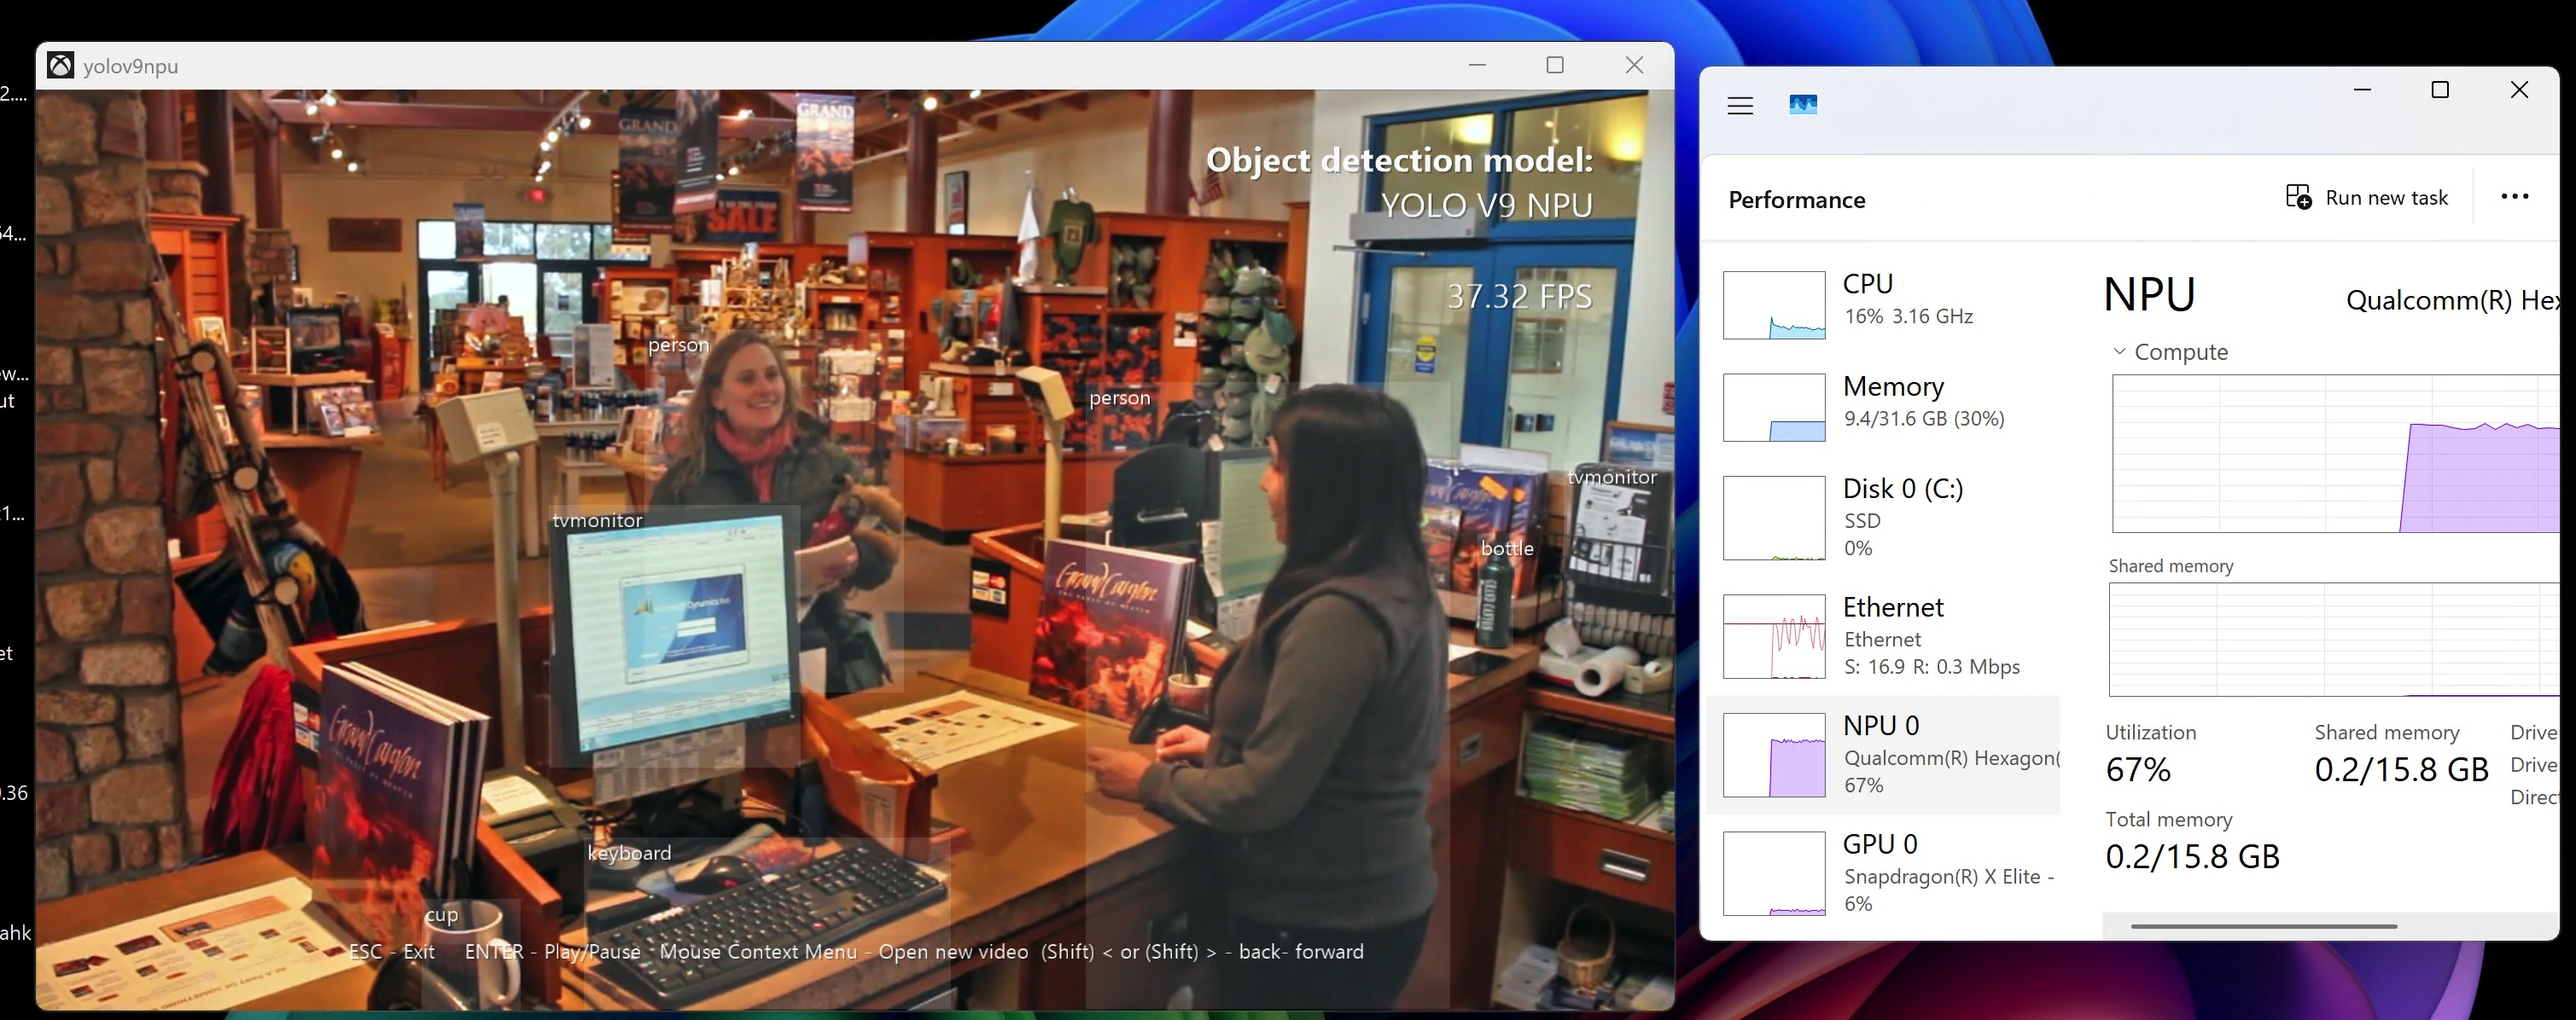
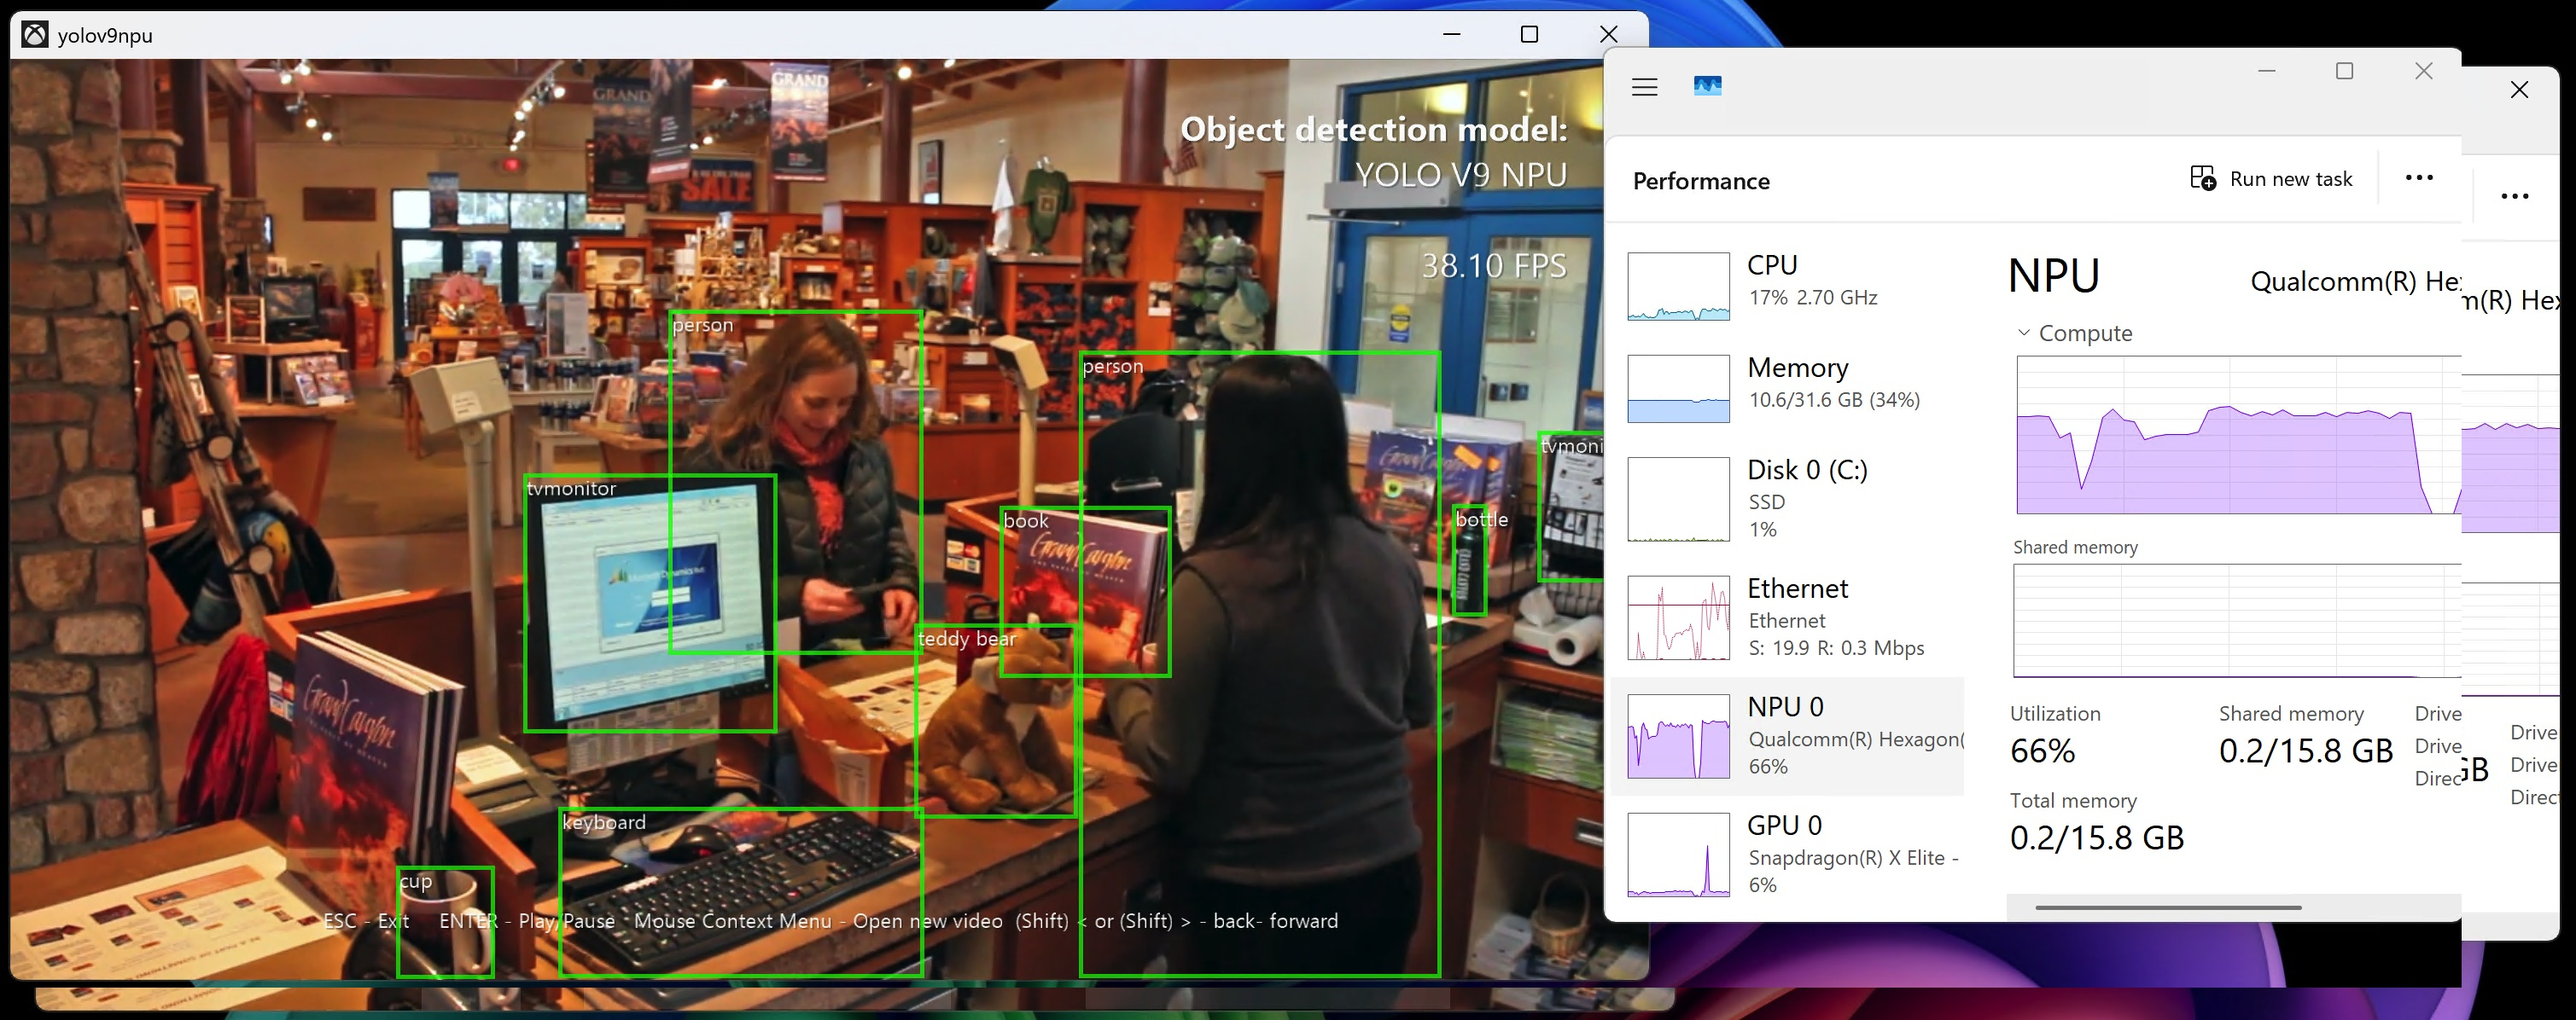
green rectangles

diff --git a/yolov9npu.cpp b/yolov9npu.cpp
@@ -19,7 +19,7 @@
 #include "ScreenGrab.h"
 #include "bilinear_transform.h"
 
-double threshold = .45;
+double threshold = .40;
 
 //const wchar_t* c_videoPath = L"https://bigroses.net/video/yankees_horror_inning.mp4";
 //const wchar_t* c_videoPath = L"\\\\Diskstation3\\video\\movie\\Jurassic.World.Dominion.2022.720p.BluRay.x264.AAC-[YTS.MX].mp4";
@@ -996,19 +996,61 @@ void Sample::Render()
 
                 for (auto& pred : m_preds)
                 {
-                    DirectX::XMVECTORF32 White = { { { 0.980392158f, 0.980392158f, 0.980392158f, 1.0f} } }; // #fafafa
-                    VertexPositionColor upperLeft(SimpleMath::Vector3(pred.xmin, pred.ymin, 0.f), White);
-                    VertexPositionColor lowerLeft(SimpleMath::Vector3(pred.xmin, pred.ymax, 0.f), White);
-                    VertexPositionColor upperRight(SimpleMath::Vector3(pred.xmax, pred.ymin, 0.f), White);
-                    VertexPositionColor lowerRight(SimpleMath::Vector3(pred.xmax, pred.ymax, 0.f), White);
-                    m_lineEffect->SetAlpha(0.15 /*pred.score / 5.0*/);
+                    m_lineEffect->SetAlpha(0.75f /*pred.score / 5.0*/);
+                    float dx = 5.0f;
+                    //DirectX::XMVECTORF32 White = { { { 0.980392158f, 0.980392158f, 0.980392158f, 1.0f} } }; // #fafafa
+                    DirectX::XMVECTORF32 White = { { { .0f, 0.980392158f, .0f, 1.0f} } }; // #fafafa
+                    {
+                        VertexPositionColor upperLeft(SimpleMath::Vector3(pred.xmin, pred.ymin, 0.f), White);
+                        VertexPositionColor upperRight(SimpleMath::Vector3(pred.xmax, pred.ymin, 0.f), White);
+                        VertexPositionColor lowerRight(SimpleMath::Vector3(pred.xmax, pred.ymin + dx, 0.f), White);
+                        VertexPositionColor lowerLeft(SimpleMath::Vector3(pred.xmin, pred.ymin + dx, 0.f), White);
+                        m_lineBatch->DrawQuad(upperLeft, upperRight, lowerRight, lowerLeft);
 
+                    }
 
+                    {
+                        VertexPositionColor upperLeft(SimpleMath::Vector3(pred.xmin, pred.ymin+dx, 0.f), White);
+                        VertexPositionColor upperRight(SimpleMath::Vector3(pred.xmin+dx, pred.ymin+dx, 0.f), White);
+                        VertexPositionColor lowerRight(SimpleMath::Vector3(pred.xmin+dx, pred.ymax - dx, 0.f), White);
+                        VertexPositionColor lowerLeft(SimpleMath::Vector3(pred.xmin, pred.ymax - dx, 0.f), White);
+                        m_lineBatch->DrawQuad(upperLeft, upperRight, lowerRight, lowerLeft);
+                    }
+
+                    {
+
+                        VertexPositionColor upperLeft(SimpleMath::Vector3(pred.xmin, pred.ymax-dx, 0.f), White);
+                        VertexPositionColor upperRight(SimpleMath::Vector3(pred.xmax-dx, pred.ymax-dx, 0.f), White);
+                        VertexPositionColor lowerRight(SimpleMath::Vector3(pred.xmax-dx, pred.ymax, 0.f), White);
+                        VertexPositionColor lowerLeft(SimpleMath::Vector3(pred.xmin, pred.ymax, 0.f), White);
+                      
+                        m_lineBatch->DrawQuad(upperLeft, upperRight, lowerRight, lowerLeft);
+                    }
+
+                    {
+                        VertexPositionColor upperLeft(SimpleMath::Vector3(pred.xmax-dx, pred.ymin+dx, 0.f), White);
+                        VertexPositionColor upperRight(SimpleMath::Vector3(pred.xmax, pred.ymin+dx, 0.f), White);
+                        VertexPositionColor lowerRight(SimpleMath::Vector3(pred.xmax, pred.ymax, 0.f), White);
+                        VertexPositionColor lowerLeft(SimpleMath::Vector3(pred.xmax-dx, pred.ymax, 0.f), White);
+
+                        m_lineBatch->DrawQuad(upperLeft, upperRight, lowerRight, lowerLeft);
+                    }
+
+                    /*
+                       VertexPositionColor upperLeft(SimpleMath::Vector3(pred.xmin, pred.ymin, 0.f), White);
+                        VertexPositionColor upperRight(SimpleMath::Vector3(pred.xmax, pred.ymin, 0.f), White);
+                        VertexPositionColor lowerLeft(SimpleMath::Vector3(pred.xmin, pred.ymax, 0.f), White);
+                        VertexPositionColor lowerRight(SimpleMath::Vector3(pred.xmax, pred.ymax, 0.f), White);
+                        m_lineBatch->DrawQuad(upperLeft, upperRight, lowerRight, lowerLeft);
+                     */
                     //m_lineBatch->DrawLine(upperLeft, upperRight);
                     //m_lineBatch->DrawLine(upperRight, lowerRight);
                     //m_lineBatch->DrawLine(lowerRight, lowerLeft);
                     //m_lineBatch->DrawLine(lowerLeft, upperLeft);
-                    m_lineBatch->DrawQuad(upperLeft, upperRight, lowerRight, lowerLeft);
+
+
+
+                    
                 }
                 m_lineBatch->End();
 
